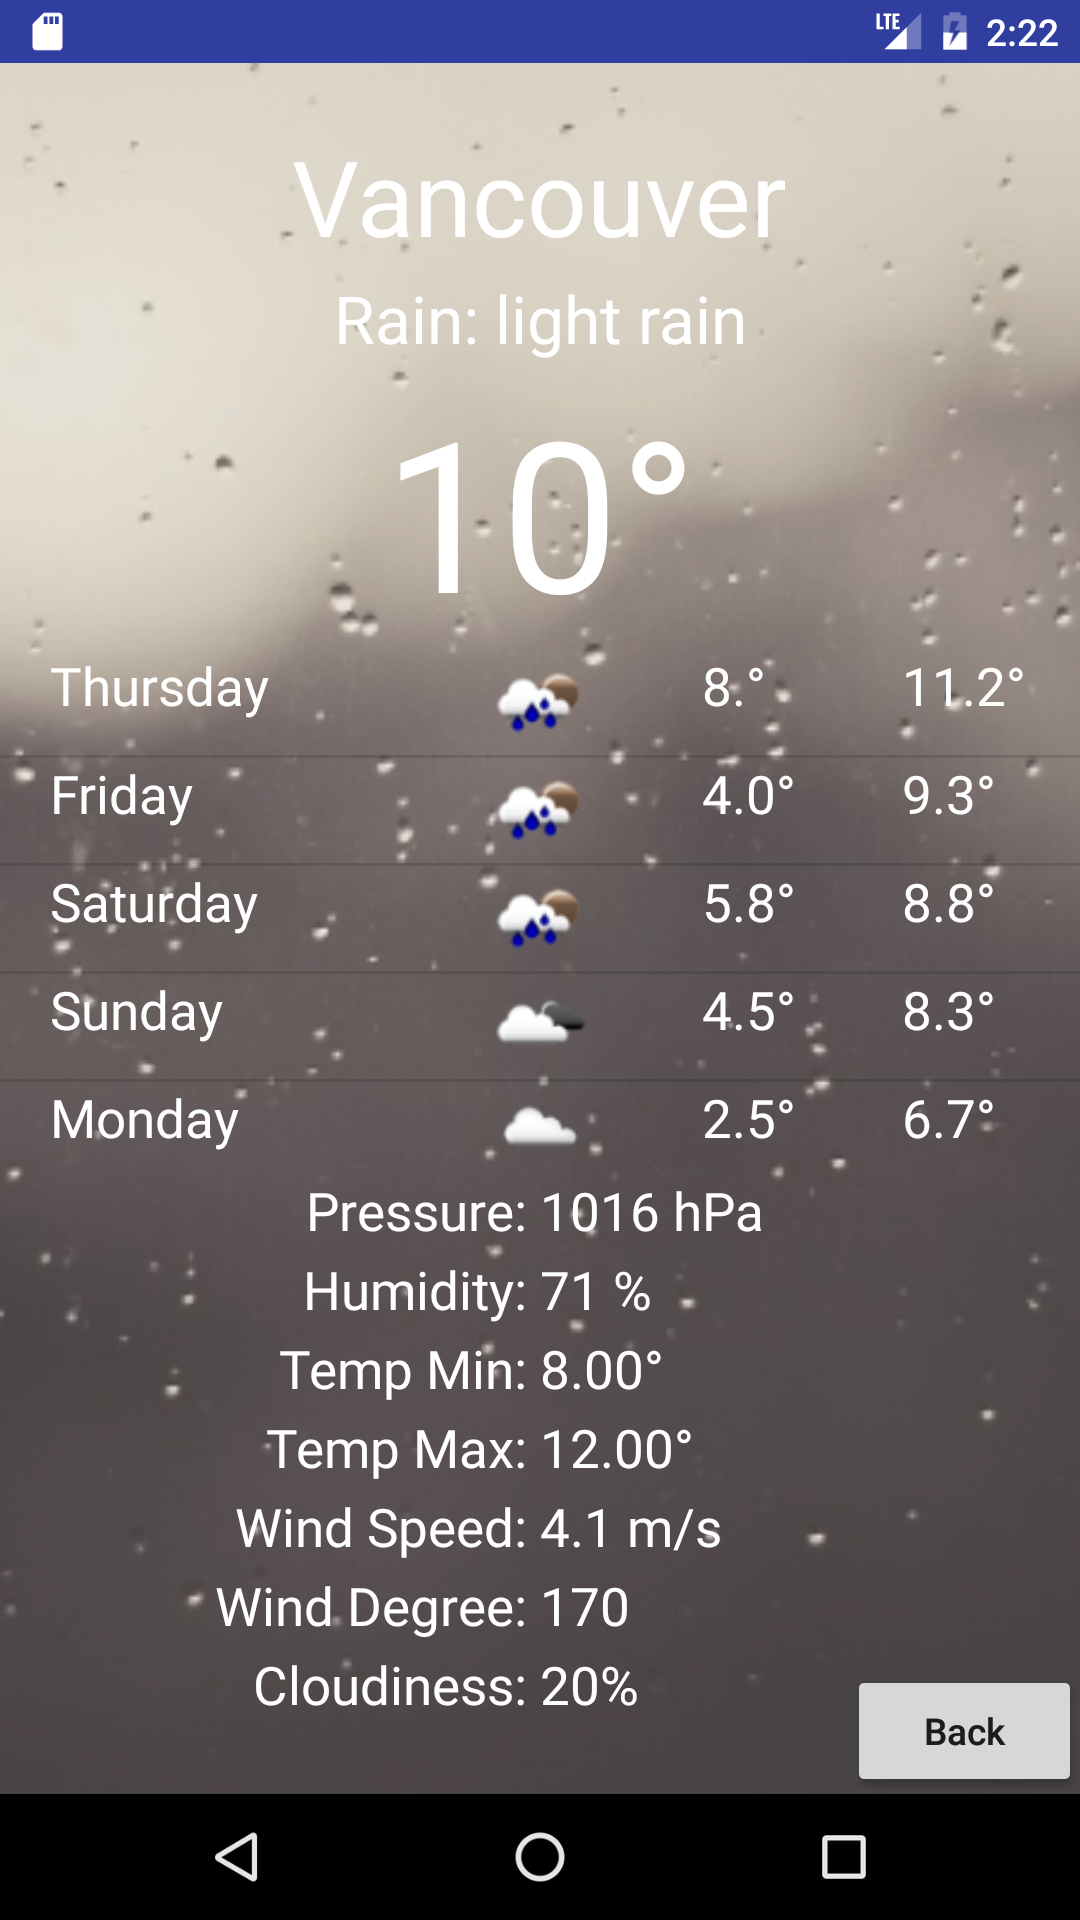
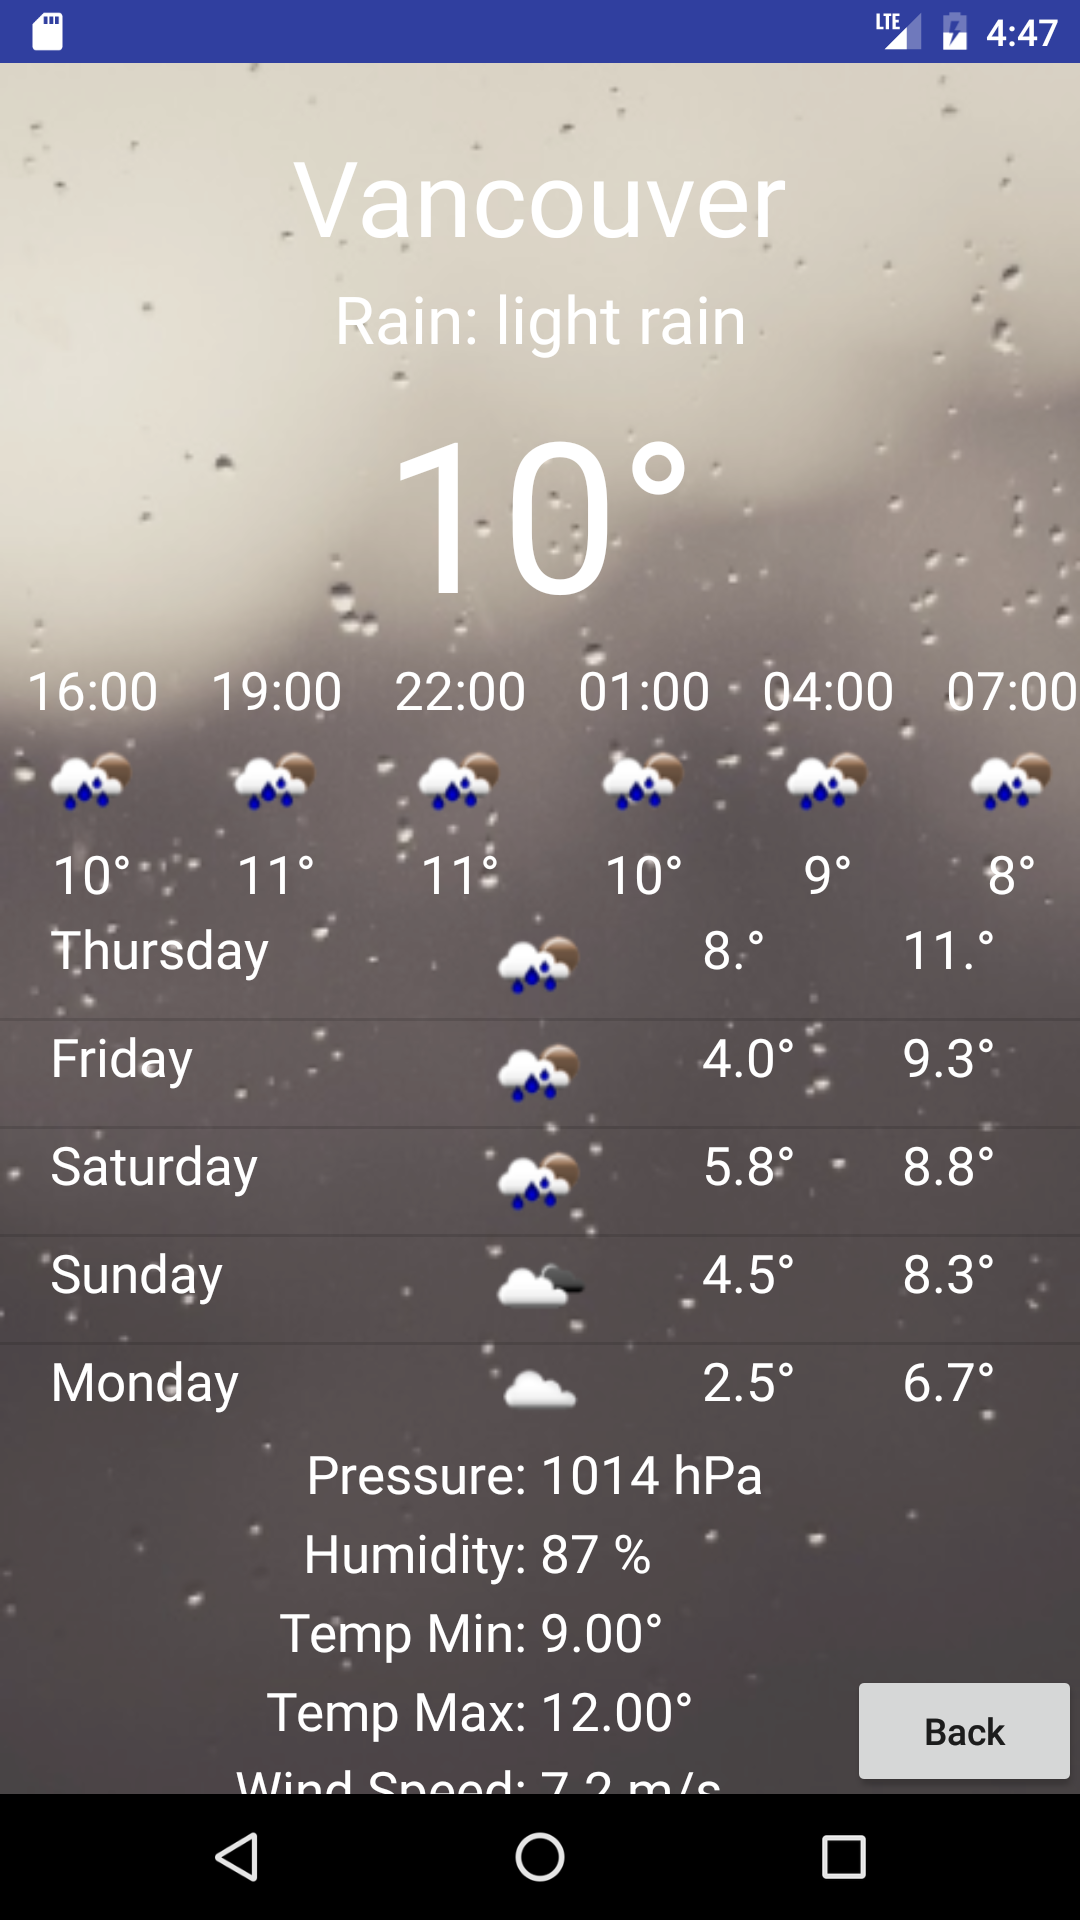
update horizontal recycle view

diff --git a/app/src/main/java/ca/dylansheng/weatherapp/adapter/hourlyAdapter.java b/app/src/main/java/ca/dylansheng/weatherapp/adapter/hourlyAdapter.java
@@ -1,0 +1,91 @@
+package ca.dylansheng.weatherapp.adapter;
+
+import android.content.Context;
+import android.media.Image;
+import android.support.v7.widget.RecyclerView;
+import android.view.LayoutInflater;
+import android.view.View;
+import android.view.ViewGroup;
+import android.widget.ArrayAdapter;
+import android.widget.ImageView;
+import android.widget.RelativeLayout;
+import android.widget.TextView;
+
+import java.text.SimpleDateFormat;
+import java.util.ArrayList;
+import java.util.Calendar;
+
+import ca.dylansheng.weatherapp.R;
+import ca.dylansheng.weatherapp.cityInfo.cityInfoOpenWeatherForecast;
+
+/**
+ * Created by sheng on 2016/11/13.
+ */
+
+
+public class hourlyAdapter extends RecyclerView.Adapter<hourlyAdapter.ViewHolder> {
+    private Context context;
+    private ArrayList<cityInfoOpenWeatherForecast> cityInfoHourlyInfoArrayList;
+    private String timeStamp;
+
+    public hourlyAdapter(Context context, ArrayList<cityInfoOpenWeatherForecast> cityInfoHourlyInfoArrayList) {
+        this.context = context;
+        this.cityInfoHourlyInfoArrayList = cityInfoHourlyInfoArrayList;
+    }
+
+    // Create new views (invoked by the layout manager)
+    @Override
+    public hourlyAdapter.ViewHolder onCreateViewHolder(ViewGroup parent, int viewType) {
+        // create a new view
+        View itemLayoutView = LayoutInflater.from(parent.getContext()).inflate(R.layout.get_info_activity_recycleview, null);
+
+        // create ViewHolder
+
+        ViewHolder viewHolder = new ViewHolder(itemLayoutView);
+        return viewHolder;
+    }
+
+    // Replace the contents of a view (invoked by the layout manager)
+    @Override
+    public void onBindViewHolder(ViewHolder viewHolder, int position) {
+
+        // - get data from your itemsData at this position
+        // - replace the contents of the view with that itemsData
+        Double temp = cityInfoHourlyInfoArrayList.get(position).temperature - 273.15;
+        Integer temp2 = temp.intValue();
+        viewHolder.getInfoActivityRecycleLayoutTextViewTemp.setText(temp2.toString() + "°");
+
+
+        String uri = "drawable/" + "c" + cityInfoHourlyInfoArrayList.get(position).icon;
+        int imageResource = context.getResources().getIdentifier(uri, null, context.getPackageName());
+        viewHolder.getInfoActivityRecycleLayoutImageViewIcon.setImageDrawable(context.getResources().getDrawable(imageResource));
+
+        Calendar c = Calendar.getInstance();
+        c.setTimeInMillis((c.getTimeInMillis() / 1000 + cityInfoHourlyInfoArrayList.get(position).dt) * 1000);
+        timeStamp = new SimpleDateFormat("HH").format(c.getTime());
+        viewHolder.getInfoActivityRecycleLayoutTextViewTimeSlot.setText(timeStamp + ":00");
+    }
+
+    // inner class to hold a reference to each item of RecyclerView
+    public static class ViewHolder extends RecyclerView.ViewHolder {
+
+        public TextView getInfoActivityRecycleLayoutTextViewTimeSlot;
+        public ImageView getInfoActivityRecycleLayoutImageViewIcon;
+        public TextView getInfoActivityRecycleLayoutTextViewTemp;
+
+
+        public ViewHolder(View itemLayoutView) {
+            super(itemLayoutView);
+            getInfoActivityRecycleLayoutTextViewTimeSlot = (TextView) itemLayoutView.findViewById(R.id.getInfoActivityRecycleLayoutTextViewTimeSlot);
+            getInfoActivityRecycleLayoutImageViewIcon = (ImageView) itemLayoutView.findViewById(R.id.getInfoActivityRecycleLayoutImageViewIcon);
+            getInfoActivityRecycleLayoutTextViewTemp = (TextView) itemLayoutView.findViewById(R.id.getInfoActivityRecycleLayoutTextViewTemp);
+        }
+    }
+
+
+    // Return the size of your itemsData (invoked by the layout manager)
+    @Override
+    public int getItemCount() {
+        return cityInfoHourlyInfoArrayList.size();
+    }
+}

diff --git a/app/src/main/java/ca/dylansheng/weatherapp/activity/getInfoActivity.java b/app/src/main/java/ca/dylansheng/weatherapp/activity/getInfoActivity.java
@@ -9,6 +9,9 @@ import android.graphics.drawable.Drawable;
 import android.os.AsyncTask;
 import android.os.Bundle;
 import android.support.v4.content.res.ResourcesCompat;
+import android.support.v7.widget.DefaultItemAnimator;
+import android.support.v7.widget.LinearLayoutManager;
+import android.support.v7.widget.RecyclerView;
 import android.util.Log;
 import android.view.View;
 import android.widget.Button;
@@ -23,8 +26,10 @@ import java.util.List;
 
 import ca.dylansheng.weatherapp.R;
 import ca.dylansheng.weatherapp.adapter.forecastAdapter;
+import ca.dylansheng.weatherapp.adapter.hourlyAdapter;
 import ca.dylansheng.weatherapp.cityInfo.cityInfo;
 import ca.dylansheng.weatherapp.cityInfo.cityInfoDaily;
+import ca.dylansheng.weatherapp.cityInfo.cityInfoHourly;
 import ca.dylansheng.weatherapp.cityInfo.cityInfoOpenWeatherForecast;
 import ca.dylansheng.weatherapp.db.MyDatabaseHelper;
 import ca.dylansheng.weatherapp.web.getInfoFromWeb;
@@ -51,6 +56,7 @@ public class getInfoActivity extends Activity implements View.OnClickListener {
     private TextView getInfoActivityRelativeLayoutTextViewCloudiness;
     private ListView getInfoActivityListView;
     private ImageView getInfoActivityListViewImageView;
+    private RecyclerView getInfoActivityRecycleLayout;
 
     private ProgressBar bar;
     /* define variables and dbs */
@@ -80,6 +86,7 @@ public class getInfoActivity extends Activity implements View.OnClickListener {
         getInfoActivityRelativeLayoutTextViewCloudiness = (TextView) findViewById(R.id.getInfoActivityRelativeLayoutTextViewCloudiness);
         getInfoActivityListView = (ListView) findViewById(R.id.getInfoActivityListView);
         getInfoActivityListViewImageView = (ImageView) findViewById(R.id.getInfoActivityListViewImageView);
+        getInfoActivityRecycleLayout = (RecyclerView) findViewById(R.id.getInfoActivityRecycleLayout);
 
         bar = (ProgressBar) findViewById(R.id.progressBar);
 
@@ -197,6 +204,16 @@ public class getInfoActivity extends Activity implements View.OnClickListener {
                 forecastAdapter adapter = new forecastAdapter(getInfoActivity.this, R.layout.get_info_activity_listview, cityInfoDailyInfoArrayList);
                 getInfoActivityListView.setAdapter(adapter);
             /* adapter done */
+
+                ArrayList<cityInfoOpenWeatherForecast> cityInfoHourlyInfoArrayList = new ArrayList<>();
+                cityInfoHourly cityInfoHourly = new cityInfoHourly(city.cityInfoOpenWeatherForecastArrayList);
+                cityInfoHourlyInfoArrayList = cityInfoHourly.getCityInfoHourlyInfoArrayList();
+                // 2. set layoutManger
+                getInfoActivityRecycleLayout.setLayoutManager(new LinearLayoutManager(getInfoActivity.this, LinearLayoutManager.HORIZONTAL, false));
+                hourlyAdapter adapter2 = new hourlyAdapter(getInfoActivity.this, cityInfoHourlyInfoArrayList);
+                getInfoActivityRecycleLayout.setAdapter( adapter2);
+                getInfoActivityRecycleLayout.setItemAnimator(new DefaultItemAnimator());
+
 
                 getInfoActivityRelativeLayoutTextViewPressure.setText(Integer.toString(city.cityInfoOpenWeather.pressure) + " hPa");
                 getInfoActivityRelativeLayoutTextViewHumidity.setText(Integer.toString(city.cityInfoOpenWeather.humidity) + " %");

diff --git a/app/src/main/java/ca/dylansheng/weatherapp/cityInfo/cityInfoHourly.java b/app/src/main/java/ca/dylansheng/weatherapp/cityInfo/cityInfoHourly.java
@@ -1,0 +1,25 @@
+package ca.dylansheng.weatherapp.cityInfo;
+
+import java.util.ArrayList;
+
+/**
+ * Created by sheng on 2016/11/13.
+ */
+
+public class cityInfoHourly {
+    ArrayList<cityInfoOpenWeatherForecast> cityInfoOpenWeatherForecastArrayList;
+
+    public cityInfoHourly(ArrayList<cityInfoOpenWeatherForecast> cityInfoOpenWeatherForecastArrayList) {
+        this.cityInfoOpenWeatherForecastArrayList = cityInfoOpenWeatherForecastArrayList;
+    }
+
+    public ArrayList<cityInfoOpenWeatherForecast> getCityInfoHourlyInfoArrayList() {
+        ArrayList<cityInfoOpenWeatherForecast> cityInfoHourlyInfoArrayList = new ArrayList<>();
+            for (int slot = 0; slot < 8; ++slot) {
+                cityInfoOpenWeatherForecast cityInfoOpenWeatherForecast = cityInfoOpenWeatherForecastArrayList.get(slot);
+                cityInfoHourlyInfoArrayList.add(cityInfoOpenWeatherForecast);
+            }
+        return cityInfoHourlyInfoArrayList;
+    }
+}
+
